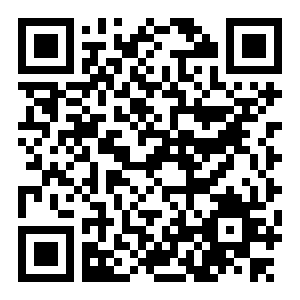
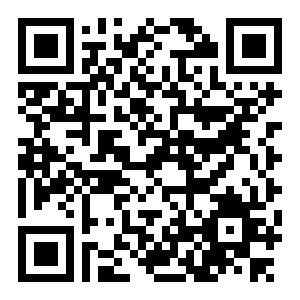
updated readme and qr code image

diff --git a/README.md b/README.md
@@ -10,13 +10,14 @@ Scan the QR code below to download the latest APK file and install it.
 Features
 --------
 
-- Automatic discovery of AirPlay services within same network
-- Beam photos from your device and show them on an AirPlay enabled device (e.g. AppleTV, AirServer)
+- Automatic discovery of AirPlay services (e.g. Apple TV, AirServer) within same network
+- Beam photos from your device to AirPlay (PNG, JPG)
+- Stream videos from your device to AirPlay (MP4)
 
 Not Supported (at least yet...)
 -------------------------------
 
-- Play videos (from device or external service like YouTube)
+- Play videos from external services (e.g. YouTube)
 - Play music
 - Slideshows, transitions, etc. for photos
 
@@ -48,3 +49,4 @@ Credits
 - Placeholder image (http://placehold.it)
 - Android action bar icon pack (https://developer.android.com/design/downloads/index.html)
 - QR code generator (https://www.the-qrcode-generator.com)
+- Glyph icons in embedded in thumbnails (http://glyphicons.com)
